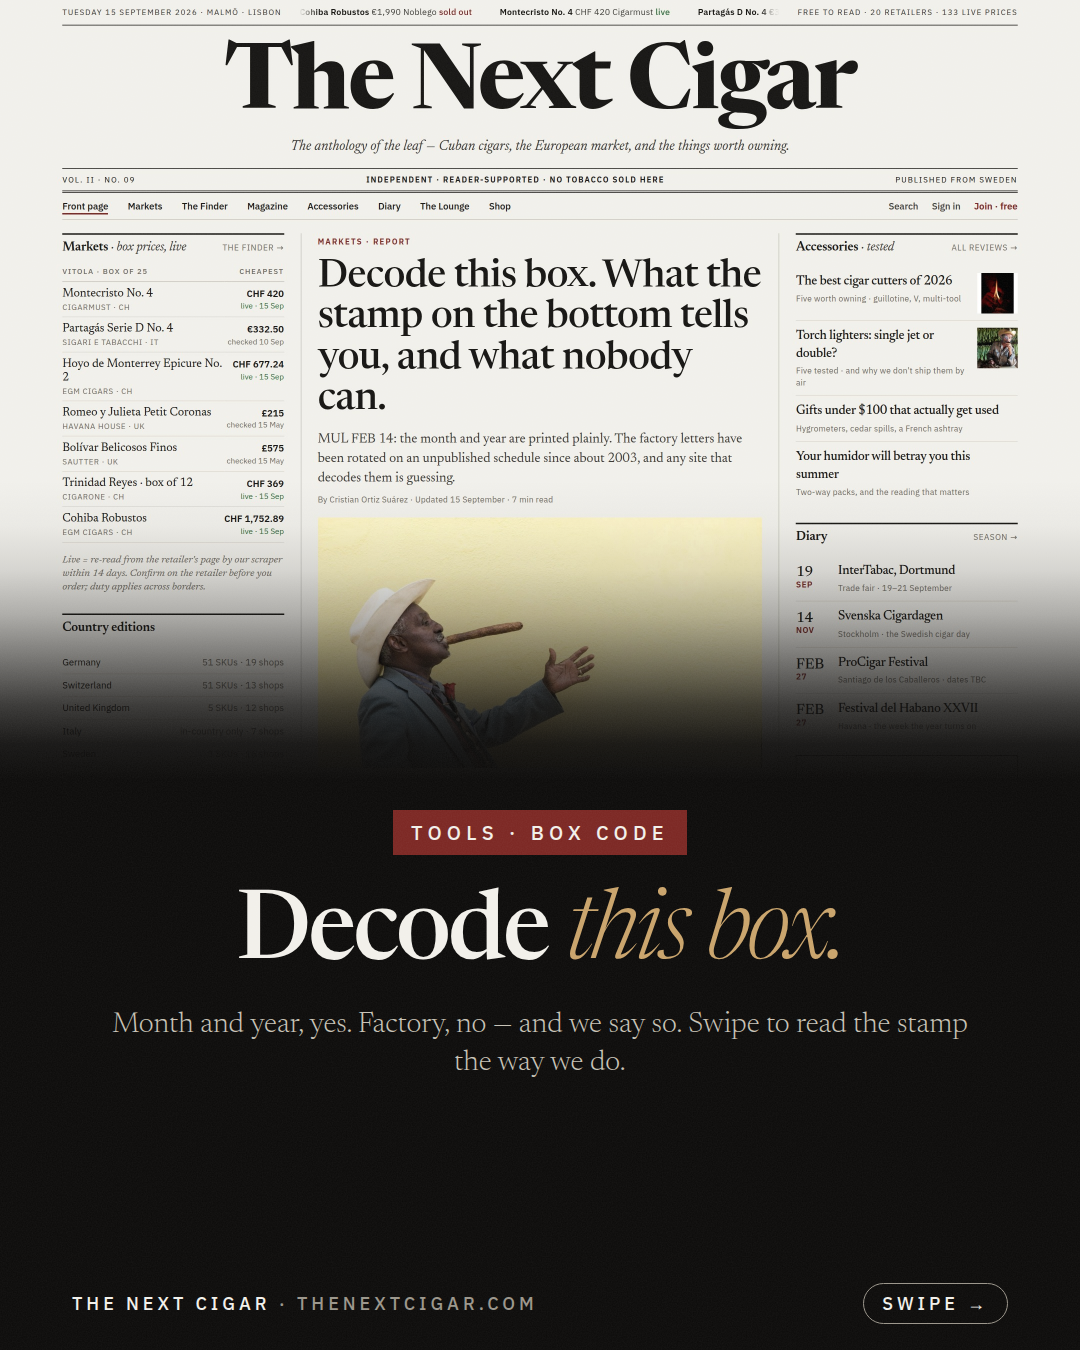
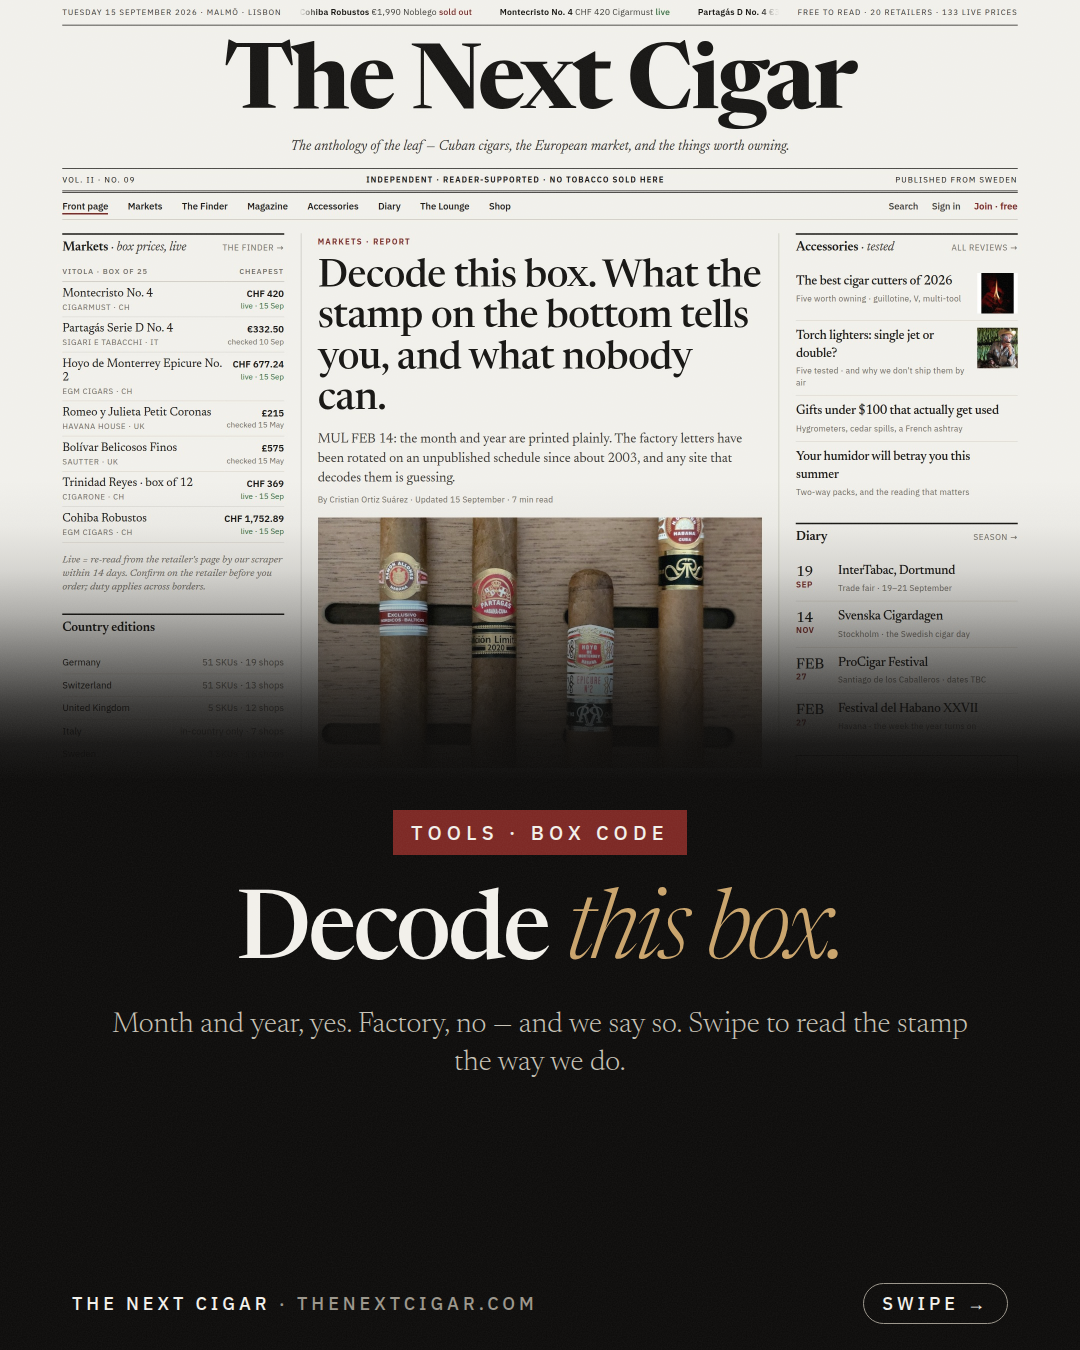
Lounge: two-tap Remove in the humidor, dialog above the header, unfinished profiles hidden from Discover and city normalised, hello@ on admin/events, 'Time in the box', fades settle in background tabs, recommendations lead with shared notes (QA L1–L7); decks 04/05 covers use their articles' images
Claude-Session: https://claude.ai/code/session_013HphmYBNP4FUaMByaE1uEh

Changed region(s): [[0.275, 0.3733, 0.7028, 0.56]]

diff --git a/src/styles/global.css b/src/styles/global.css
@@ -538,6 +538,10 @@ header { z-index: 40; }
     transform 700ms var(--ease-out-expo);
 }
 .reveal.is-visible { opacity: 1; transform: translateY(0); }
+/* A tab that was in the background when the fade started keeps a frozen
+   half-faded page; once it is visible again, or after 1.5 s regardless, the
+   fade is finished for it. */
+.reveal-settle .reveal.is-visible { transition: none; }
 .reveal[data-reveal-delay="1"] { transition-delay: 60ms; }
 .reveal[data-reveal-delay="2"] { transition-delay: 120ms; }
 .reveal[data-reveal-delay="3"] { transition-delay: 180ms; }

diff --git a/docs/qa-review-2026-09-15.md b/docs/qa-review-2026-09-15.md
@@ -60,4 +60,6 @@ Then, when there is time: a search box in the masthead that covers vitolas, reta
 | L6 | Places: the "Vetted cigar spots worldwide" header and intro rendered at 24% opacity for the whole session. Cause: `.reveal` fade-in with a 700 ms transition that Chrome freezes in a background tab, so this is an artefact of how it was tested — but readers who open a link in a background tab and switch to it later will see the same frozen fade. Consider `animation` instead of `transition`, or a 1.5 s fallback that forces `opacity:1`. | 1 | every Lounge page with `.reveal` |
 | L7 | Home: "Members you'd vibe with" recommends Cris to Björn on "Loves Davidoff"; the paper never sells or covers Davidoff. Fine for members, but the recommendation copy is brand-based when the profile also has flavour notes and strength — those would make a better sentence. | 1 | `/lounge/app/` |
 
+**Fixed the same evening (commit follows):** L1 two-tap Remove (no native confirm), L2 dialog above the header with safe-area padding, L3 unfinished profiles hidden from Discover and city normalised on save, L4 hello@ replaces the Gmail address on the admin and events pages, L5 "Time in the box" and "steady over 90 days" under 1%, L6 fades settle when a background tab becomes visible or after 1.5 s, L7 recommendation copy leads with shared notes.
+
 **Not done, and why.** "Delete my account" was not exercised (it uses a native confirm dialog and it is destructive). No trip was declared and no shop submitted, because both notify other members or land in your review queue. The QA submission from the morning ("QA TEST 15 Sep — reject me") is still in Submissions.

diff --git a/docs/TODO.md b/docs/TODO.md
@@ -30,10 +30,7 @@ Kept in the repo so it survives sessions. Newest at the top of each list. Strike
 
 ## Lounge (QA addendum, 15 Sep evening)
 
-- Humidor: Remove needs an Undo toast or a confirm (L1); modal clipped on short viewports (L2).
-- Directory: hide profiles with no display name/city; normalise city spelling (L3).
-- Admin restricted page: replace the Gmail address with hello@ (L4).
-- Copy: "Had time" → "Time in the box" (L5).
+- L1–L7 fixed 15 Sep. Still yours: reject "QA TEST 15 Sep — reject me" in Submissions; ask the six "New Member" accounts (now hidden from Discover until they finish) to add a name and city — or leave them.
 
 ## Finder coverage (15 Sep audit)
 
